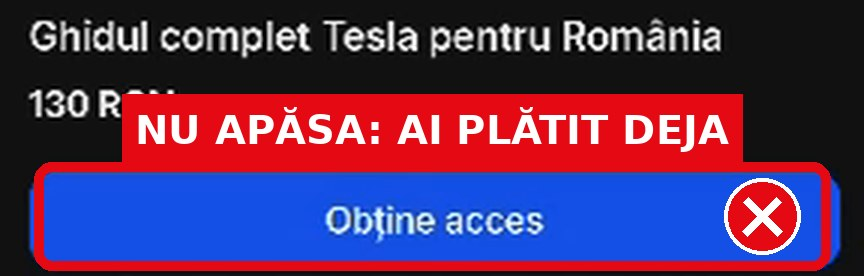
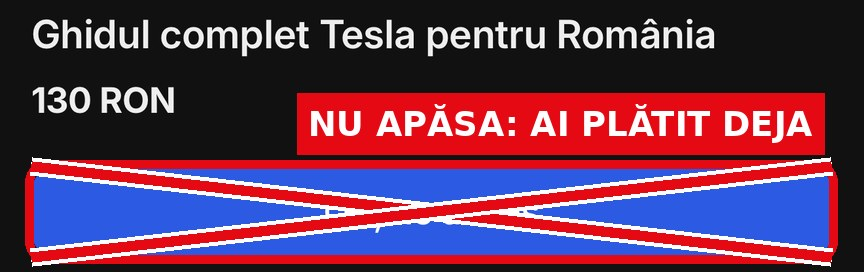
Thank-you pop-up: sharp RO screenshot, Get access fully crossed out
Claude-Session: https://claude.ai/code/session_01UZT1vPCg4kpW7kindMm3eK

diff --git a/aron-bob/ghid-tesla/multumim/index.html b/aron-bob/ghid-tesla/multumim/index.html
@@ -79,7 +79,7 @@ li:hover::after{transform:none}
  </div>
  <p class="help">N-ai primit emailul în 15 minute sau nu găsești fișierul? Scrie-ne la <a href="mailto:studioairwalk@gmail.com">studioairwalk@gmail.com</a> și te ajutăm imediat.</p>
 </div>
-<div class="awm" id="awm" role="dialog" aria-modal="true" aria-labelledby="awm-h" hidden><div class="awm-box"><h2 id="awm-h">Ai plătit deja. <span>Citește asta înainte.</span></h2><p>Ghidul te așteaptă în contul tău Whop, creat automat cu emailul de la plată. Ca să ajungi la el:</p><ol><li><div><span>Apasă butonul roșu <em>„Intră în cont și descarcă ghidul”</em>.</span></div></li><li><div><span>Pe Whop <b>nu</b> apăsa butonul albastru <strong>Obține acces</strong> (Get access). Ai plătit deja. Apasă <em>„Conectează-te”</em> (Sign in), din dreapta sus.</span></div><div class="awm-shots"><img class="awm-shot" src="ro-signin.jpg" alt="Ecranul Whop: apasă „Conectează-te”, în dreapta sus" width="864" height="126"><img class="awm-shot" src="ro-getaccess.jpg" alt="Ecranul Whop: nu apăsa butonul albastru „Obține acces”" width="864" height="276"></div></li><li><div><span>Scrie emailul folosit la plată și codul de 6 cifre pe care Whop ți-l trimite pe email.</span></div></li></ol><label><input type="checkbox" id="awm-c"> <span>Am înțeles: mă conectez cu emailul de la plată și nu apăs „Obține acces”.</span></label><button type="button" id="awm-b" disabled>Citește (5)</button></div></div>
+<div class="awm" id="awm" role="dialog" aria-modal="true" aria-labelledby="awm-h" hidden><div class="awm-box"><h2 id="awm-h">Ai plătit deja. <span>Citește asta înainte.</span></h2><p>Ghidul te așteaptă în contul tău Whop, creat automat cu emailul de la plată. Ca să ajungi la el:</p><ol><li><div><span>Apasă butonul roșu <em>„Intră în cont și descarcă ghidul”</em>.</span></div></li><li><div><span>Pe Whop <b>nu</b> apăsa butonul albastru <strong>Obține acces</strong> (Get access). Ai plătit deja. Apasă <em>„Conectează-te”</em> (Sign in), din dreapta sus.</span></div><div class="awm-shots"><img class="awm-shot" src="ro-signin.jpg" alt="Ecranul Whop: apasă „Conectează-te”, în dreapta sus" width="864" height="105"><img class="awm-shot" src="ro-getaccess.jpg" alt="Ecranul Whop: nu apăsa butonul albastru „Obține acces”" width="864" height="272"></div></li><li><div><span>Scrie emailul folosit la plată și codul de 6 cifre pe care Whop ți-l trimite pe email.</span></div></li></ol><label><input type="checkbox" id="awm-c"> <span>Am înțeles: mă conectez cu emailul de la plată și nu apăs „Obține acces”.</span></label><button type="button" id="awm-b" disabled>Citește (5)</button></div></div>
 <script>
 (function(){var s=new URLSearchParams(location.search).get('status');if(s==='failed'||s==='canceled')return;
 var m=document.getElementById('awm'),c=document.getElementById('awm-c'),b=document.getElementById('awm-b'),n=5,W="Cite\u0219te ({n})",B="Am \u00een\u021beles";
